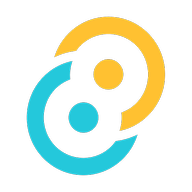
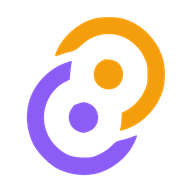
feat(android+desktop): мобильная SettingsPage + актуальная иконка launcher
1. SettingsPage «Внешний вид» (и все категории) в портрете телефона:
   навигация — горизонтальная полоса сверху, контент под ней. Раньше
   260px sidebar + контент не помещались на 412px — приходилось
   поворачивать телефон горизонтально.
   ВАЖНО: media query перенесён в КОНЕЦ scoped-стилей — у scoped-селекторов
   одинаковая специфичность, побеждает последний; блок в начале файла
   перекрывался базовым .settings-sidebar { width:260px }.

2. Иконка Android: заменена на принятый логотип (2 полукруга, верх
   золотой #f59e0b, низ фиолетовый #8b5cf6 — vault-desktop-logo.svg)
   вместо старой голубо-жёлтой (#fcc030/#23c6d9). Обновлены:
   - mipmap-*/ic_launcher{,_round,_foreground}.png (сгенерированы из
     vault-desktop-logo-512.png, размеры 48-192px)
   - docs/branding/vault-android-launcher-{192,512,round-512}.png
   - docs/branding/vault-android-launcher{,-dark,-light}.svg (цвета)

Проверено на эмуляторе (портрет 412px): SettingsPage — sidebar 365px
(100%), навигация row, контент виден; иконка на home screen — золото+
фиолет. APK собран, подписан CN=Vault.

diff --git a/vault-android/src/components/SettingsPage.vue b/vault-android/src/components/SettingsPage.vue
@@ -381,4 +381,45 @@ export default {
 .help-links a { color: #58a6ff; text-decoration: none; font-size: 14px; }
 .help-links a:hover { text-decoration: underline; }
 .version { color: #484f58; font-size: 12px; margin-top: 16px; }
+
+/* Мобильный режим (портрет телефона): навигация — горизонтальная полоса
+   сверху, контент под ней. Иначе 260px sidebar + контент не помещаются
+   на 412px и приходится поворачивать телефон (фикс 21.08).
+   ВАЖНО: media query должен идти ПОСЛЕ базовых правил (.settings-sidebar
+   width:260px) — scoped-селекторы имеют одинаковую специфичность, и
+   побеждает последний. Раньше блок стоял в начале и не применялся. */
+@media (max-width: 767px) {
+  .settings-page {
+    flex-direction: column;
+  }
+  .settings-sidebar {
+    width: 100%;
+    min-width: 0;
+    flex-direction: row;
+    align-items: center;
+    border-right: none;
+    border-bottom: 1px solid #30363d;
+  }
+  .settings-profile {
+    padding: 12px 16px;
+    border-bottom: none;
+    border-right: 1px solid #30363d;
+  }
+  .settings-nav {
+    flex: 1;
+    display: flex;
+    flex-direction: row;
+    overflow-x: auto;
+    padding: 0;
+    -webkit-overflow-scrolling: touch;
+  }
+  .settings-nav-item {
+    flex-shrink: 0;
+    padding: 12px 14px;
+  }
+  .settings-content {
+    padding: 16px;
+    overflow-y: auto;
+  }
+}
 </style>

diff --git a/vault-desktop/src/components/SettingsPage.vue b/vault-desktop/src/components/SettingsPage.vue
@@ -381,4 +381,45 @@ export default {
 .help-links a { color: #58a6ff; text-decoration: none; font-size: 14px; }
 .help-links a:hover { text-decoration: underline; }
 .version { color: #484f58; font-size: 12px; margin-top: 16px; }
+
+/* Мобильный режим (портрет телефона): навигация — горизонтальная полоса
+   сверху, контент под ней. Иначе 260px sidebar + контент не помещаются
+   на 412px и приходится поворачивать телефон (фикс 21.08).
+   ВАЖНО: media query должен идти ПОСЛЕ базовых правил (.settings-sidebar
+   width:260px) — scoped-селекторы имеют одинаковую специфичность, и
+   побеждает последний. Раньше блок стоял в начале и не применялся. */
+@media (max-width: 767px) {
+  .settings-page {
+    flex-direction: column;
+  }
+  .settings-sidebar {
+    width: 100%;
+    min-width: 0;
+    flex-direction: row;
+    align-items: center;
+    border-right: none;
+    border-bottom: 1px solid #30363d;
+  }
+  .settings-profile {
+    padding: 12px 16px;
+    border-bottom: none;
+    border-right: 1px solid #30363d;
+  }
+  .settings-nav {
+    flex: 1;
+    display: flex;
+    flex-direction: row;
+    overflow-x: auto;
+    padding: 0;
+    -webkit-overflow-scrolling: touch;
+  }
+  .settings-nav-item {
+    flex-shrink: 0;
+    padding: 12px 14px;
+  }
+  .settings-content {
+    padding: 16px;
+    overflow-y: auto;
+  }
+}
 </style>
